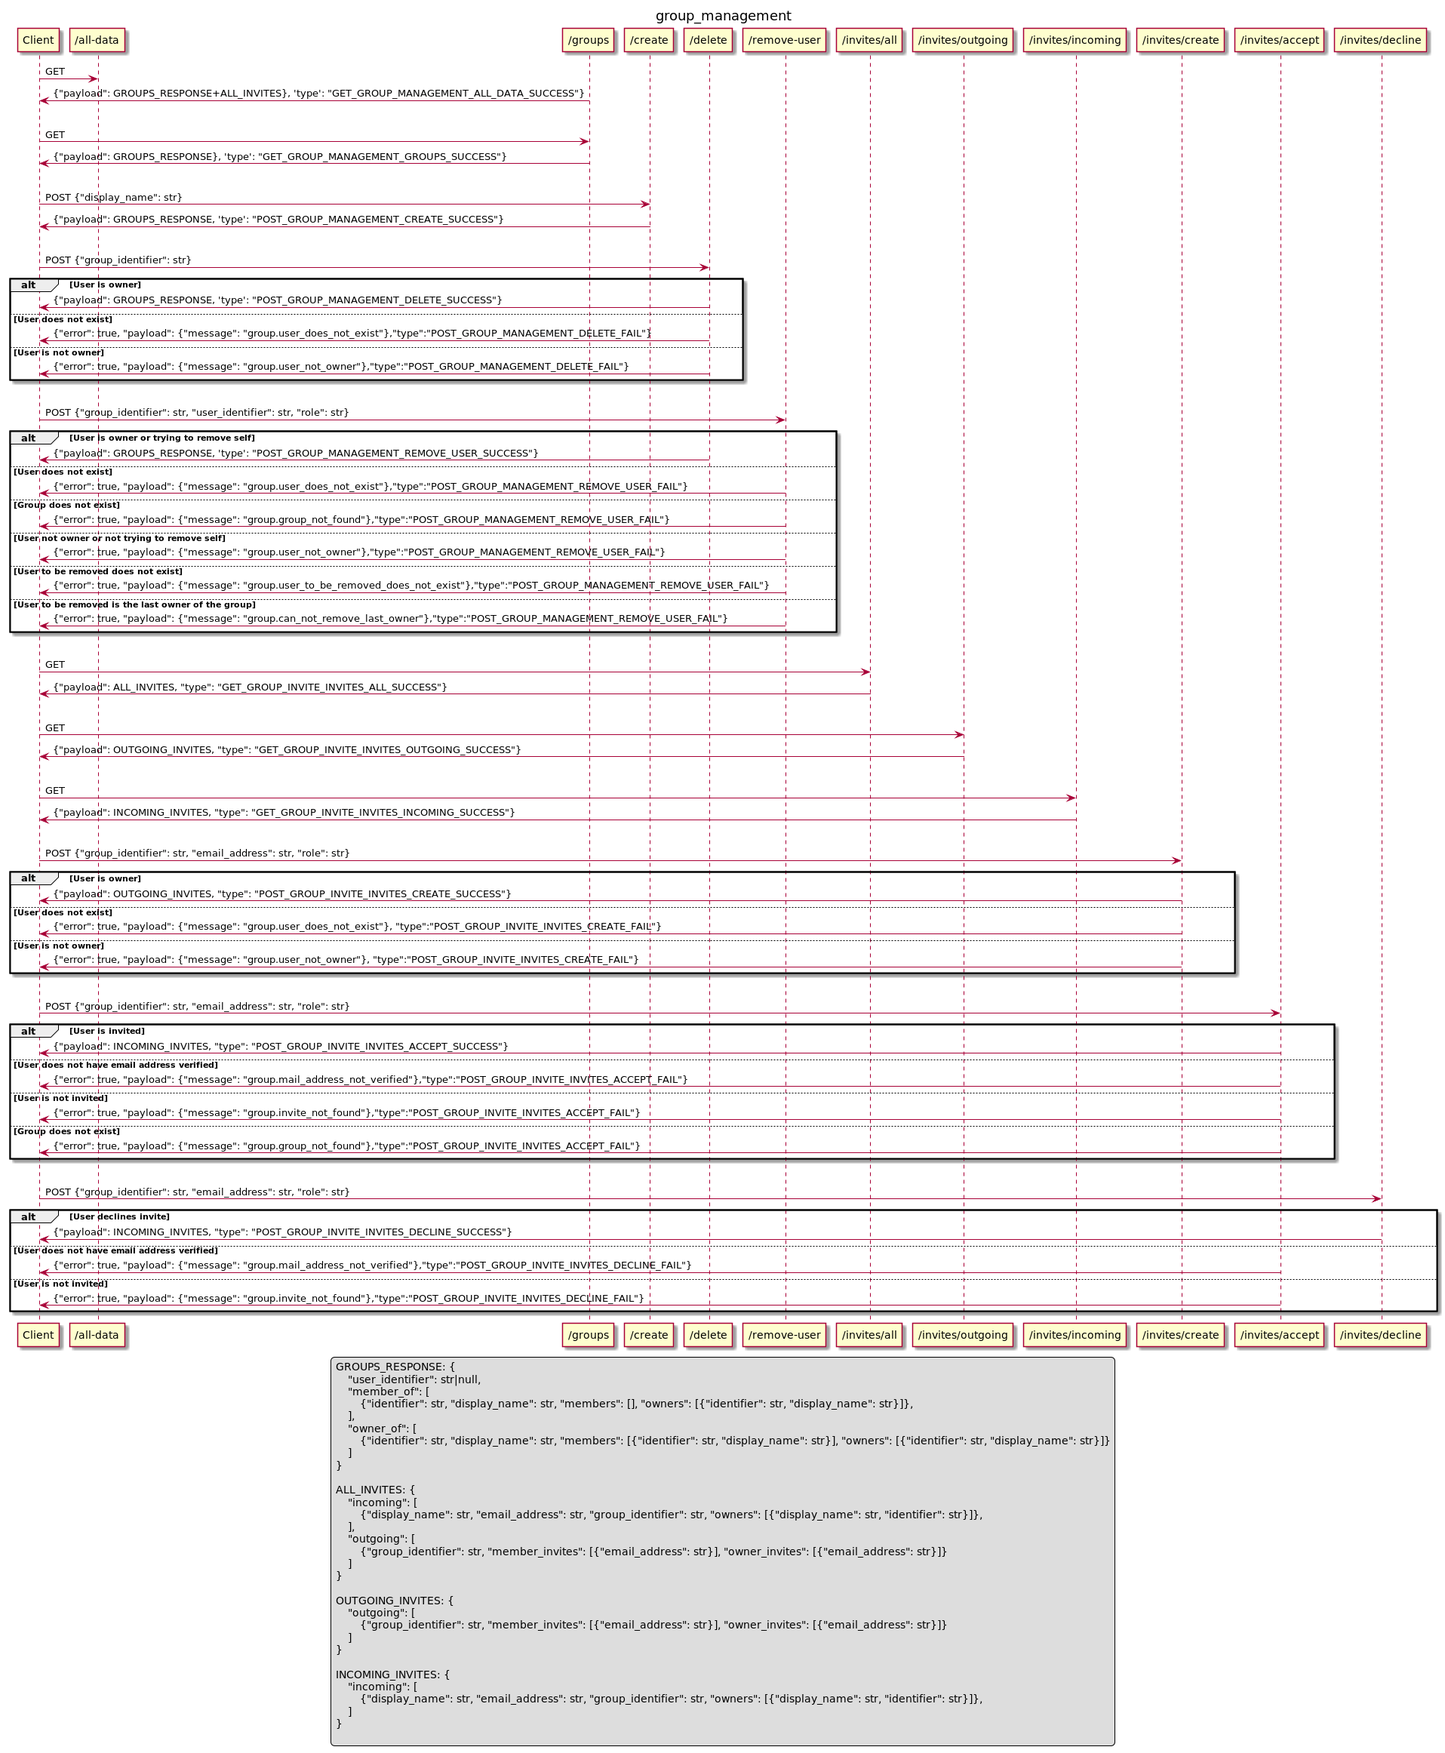
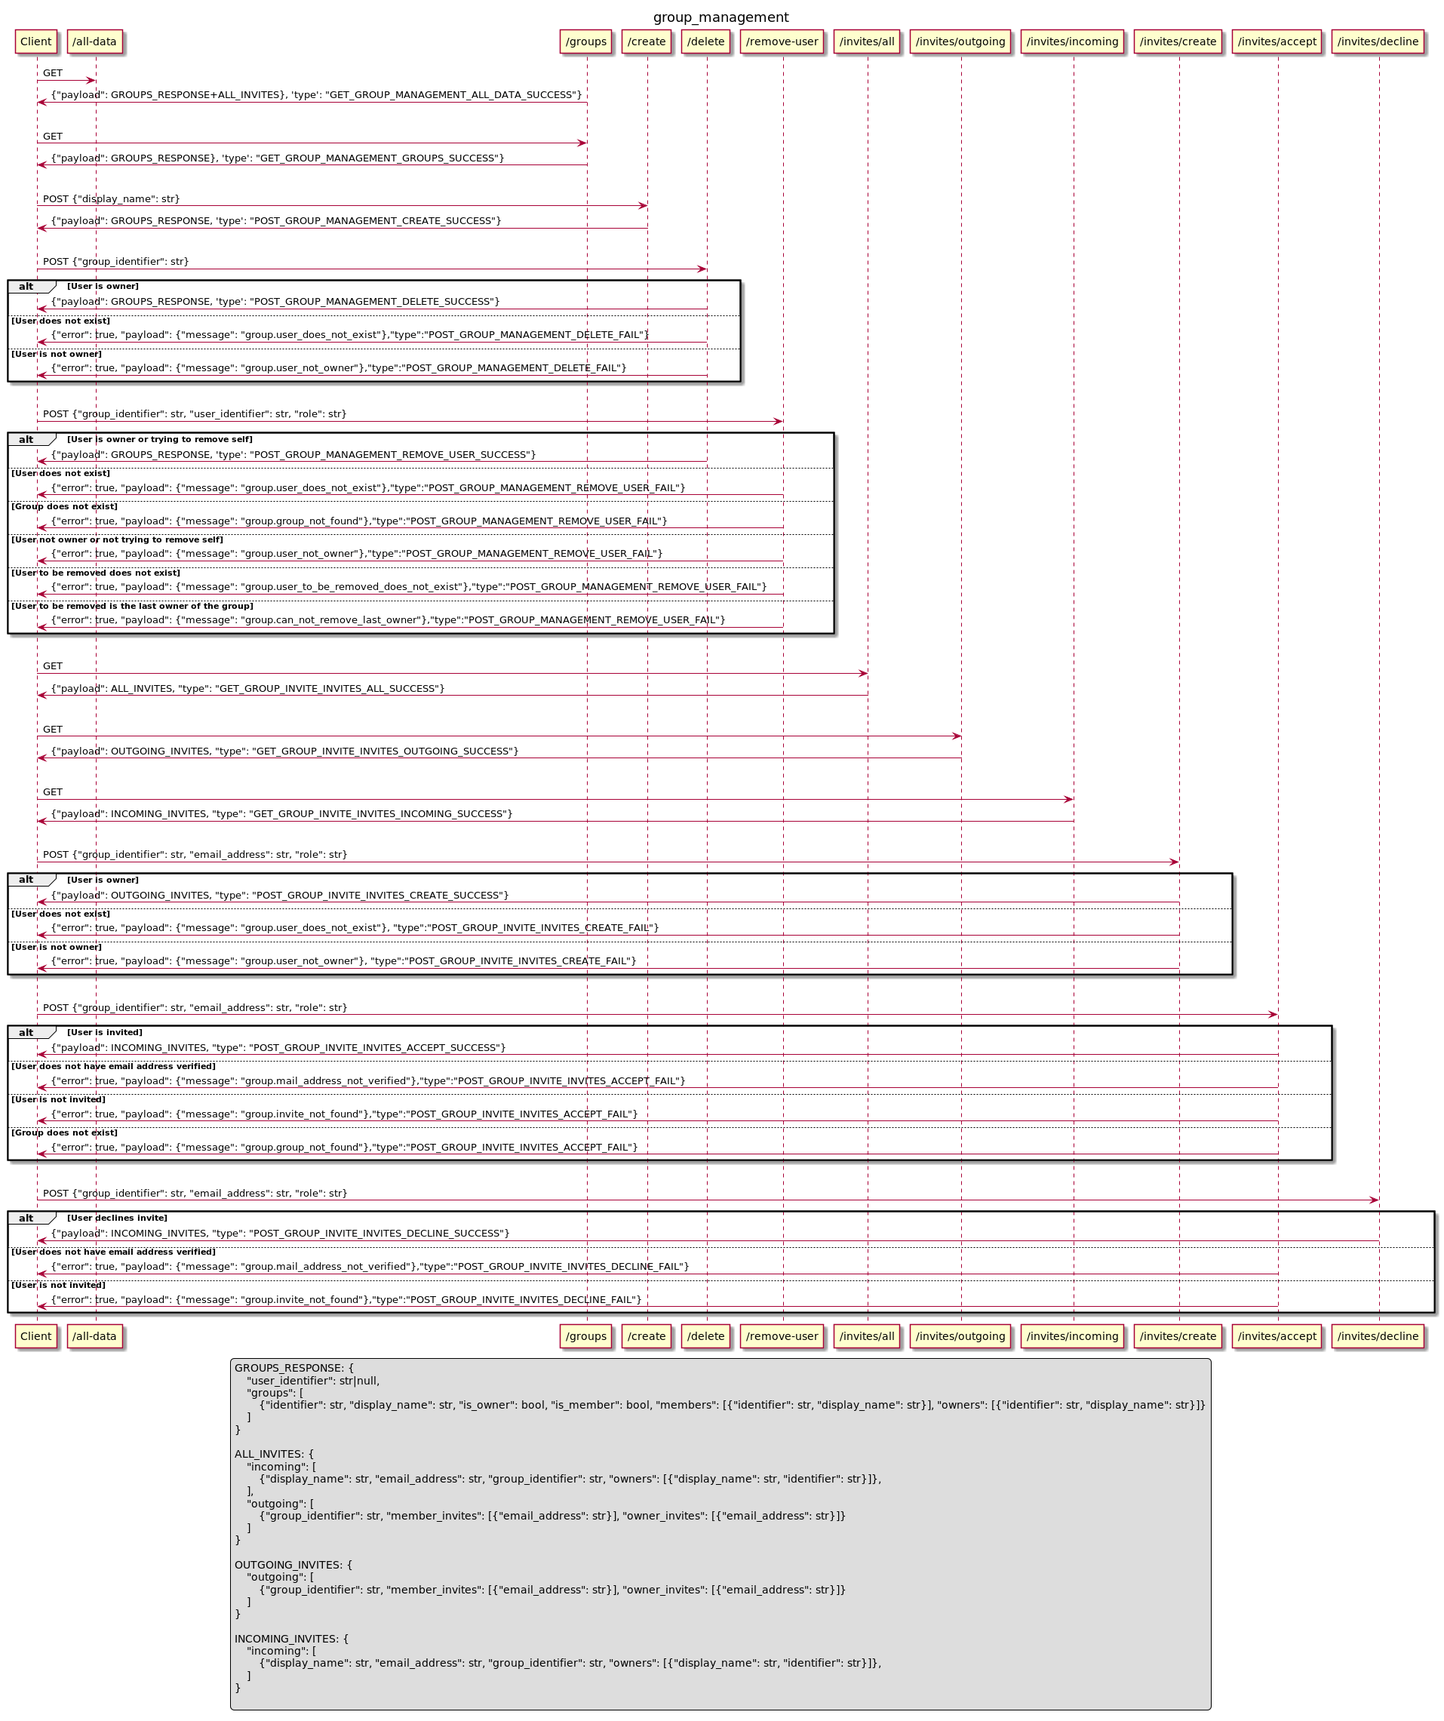
Combine owner_of and member_of in a groups list
Add is_owner and is_member to group data

Changed region(s): [[0.0, 0.0, 1.0, 1.0]]

diff --git a/src/eduid_webapp/group_management/tests/test_app.py b/src/eduid_webapp/group_management/tests/test_app.py
@@ -235,10 +235,10 @@ class GroupManagementTests(EduidAPITestCase):
         self._check_success_response(response, type_='GET_GROUP_MANAGEMENT_GROUPS_SUCCESS')
         payload = response.json.get('payload')
         assert str(self.scim_user1.scim_id) == payload['user_identifier']
-        assert 1 == len(payload['member_of'])
-        assert 1 == len(payload['owner_of'])
-        assert 'Test Group 1' == payload['member_of'][0]['display_name']
-        assert 'Test Group 1' == payload['owner_of'][0]['display_name']
+        assert 1 == len(payload['groups'])
+        assert 'Test Group 1' == payload['groups'][0]['display_name']
+        assert payload['groups'][0]['is_owner'] is True
+        assert payload['groups'][0]['is_member'] is True
 
     def test_get_member_groups_no_scim_user(self):
         # Remove test user from scim_userdb
@@ -250,8 +250,7 @@ class GroupManagementTests(EduidAPITestCase):
         self._check_success_response(response, type_='GET_GROUP_MANAGEMENT_GROUPS_SUCCESS')
         payload = response.json.get('payload')
         assert payload['user_identifier'] is None
-        assert 0 == len(payload['member_of'])
-        assert 0 == len(payload['owner_of'])
+        assert 0 == len(payload['groups'])
 
     def test_create_group(self):
         with self.session_cookie(self.browser, self.test_user.eppn) as client:
@@ -261,10 +260,11 @@ class GroupManagementTests(EduidAPITestCase):
                 response = client.post('/create', data=json.dumps(data), content_type=self.content_type_json)
         self._check_success_response(response, type_='POST_GROUP_MANAGEMENT_CREATE_SUCCESS')
         payload = response.json.get('payload')
-        assert 0 == len(payload['member_of'])
-        assert 1 == len(payload['owner_of'])
-        assert 'Test Group 2' == payload['owner_of'][0]['display_name']
-        assert self.app.scimapi_groupdb.group_exists(payload['owner_of'][0]['identifier']) is True
+        assert 1 == len(payload['groups'])
+        assert 'Test Group 2' == payload['groups'][0]['display_name']
+        assert payload['groups'][0]['is_owner'] is True
+        assert payload['groups'][0]['is_member'] is False
+        assert self.app.scimapi_groupdb.group_exists(payload['groups'][0]['identifier']) is True
 
     def test_create_group_no_scim_user(self):
         # Remove test user from scim_userdb
@@ -278,10 +278,11 @@ class GroupManagementTests(EduidAPITestCase):
                 response = client.post('/create', data=json.dumps(data), content_type=self.content_type_json)
         self._check_success_response(response, type_='POST_GROUP_MANAGEMENT_CREATE_SUCCESS')
         payload = response.json.get('payload')
-        assert 0 == len(payload['member_of'])
-        assert 1 == len(payload['owner_of'])
-        assert 'Test Group 2' == payload['owner_of'][0]['display_name']
-        assert self.app.scimapi_groupdb.group_exists(payload['owner_of'][0]['identifier']) is True
+        assert 1 == len(payload['groups'])
+        assert 'Test Group 2' == payload['groups'][0]['display_name']
+        assert payload['groups'][0]['is_owner'] is True
+        assert payload['groups'][0]['is_member'] is False
+        assert self.app.scimapi_groupdb.group_exists(payload['groups'][0]['identifier']) is True
 
     def test_delete_group(self):
         # Add test user as group owner of two groups
@@ -300,8 +301,7 @@ class GroupManagementTests(EduidAPITestCase):
                 response = client.post('/delete', data=json.dumps(data), content_type=self.content_type_json)
         self._check_success_response(response, type_='POST_GROUP_MANAGEMENT_DELETE_SUCCESS')
         payload = response.json.get('payload')
-        assert 0 == len(payload['member_of'])
-        assert 1 == len(payload['owner_of'])
+        assert 1 == len(payload['groups'])
 
         assert self.app.scimapi_groupdb.group_exists(str(self.scim_group2.scim_id)) is True
         assert self.app.scimapi_groupdb.group_exists(str(self.scim_group1.scim_id)) is False
@@ -388,8 +388,7 @@ class GroupManagementTests(EduidAPITestCase):
                 response = client.post('/remove-user', data=json.dumps(data), content_type=self.content_type_json)
         self._check_success_response(response, type_='POST_GROUP_MANAGEMENT_REMOVE_USER_SUCCESS')
         payload = response.json.get('payload')
-        assert 0 == len(payload['member_of'])
-        assert 1 == len(payload['owner_of'])
+        assert 1 == len(payload['groups'])
 
         # Check that test_user2 is no longer a member of scim_group1
         group = self.app.scimapi_groupdb.get_group_by_scim_id(str(self.scim_group1.scim_id))
@@ -450,8 +449,9 @@ class GroupManagementTests(EduidAPITestCase):
                 response = client.post('/remove-user', data=json.dumps(data), content_type=self.content_type_json)
         self._check_success_response(response, type_='POST_GROUP_MANAGEMENT_REMOVE_USER_SUCCESS')
         payload = response.json.get('payload')
-        assert 0 == len(payload['member_of'])
-        assert 1 == len(payload['owner_of'])
+        assert 1 == len(payload['groups'])
+        assert payload['groups'][0]['is_owner'] is True
+        assert payload['groups'][0]['is_member'] is False
 
         # Check that test_user2 is no longer a member of scim_group1
         group = self.app.scimapi_groupdb.get_group_by_scim_id(str(self.scim_group1.scim_id))
@@ -508,8 +508,7 @@ class GroupManagementTests(EduidAPITestCase):
                 response = client.post('/remove-user', data=json.dumps(data), content_type=self.content_type_json)
         self._check_success_response(response, type_='POST_GROUP_MANAGEMENT_REMOVE_USER_SUCCESS')
         payload = response.json.get('payload')
-        assert 0 == len(payload['member_of'])
-        assert 0 == len(payload['owner_of'])
+        assert 0 == len(payload['groups'])
 
         # Check that test_user1 is no longer a member of scim_group1
         group = self.app.scimapi_groupdb.get_group_by_scim_id(str(self.scim_group1.scim_id))
@@ -539,8 +538,7 @@ class GroupManagementTests(EduidAPITestCase):
                 response = client.post('/remove-user', data=json.dumps(data), content_type=self.content_type_json)
         self._check_success_response(response, type_='POST_GROUP_MANAGEMENT_REMOVE_USER_SUCCESS')
         payload = response.json.get('payload')
-        assert 0 == len(payload['member_of'])
-        assert 1 == len(payload['owner_of'])
+        assert 1 == len(payload['groups'])
 
         # Check that test_user2 is still not a member of scim_group1
         group = self.app.scimapi_groupdb.get_group_by_scim_id(str(self.scim_group1.scim_id))
@@ -609,10 +607,10 @@ class GroupManagementTests(EduidAPITestCase):
         self._check_success_response(response, type_='GET_GROUP_MANAGEMENT_GROUPS_SUCCESS')
         payload = response.json.get('payload')
         assert str(self.scim_user1.scim_id) == payload['user_identifier']
-        assert 1 == len(payload['member_of'])
-        assert 1 == len(payload['owner_of'])
-        assert 'Test Group 1' == payload['member_of'][0]['display_name']
-        assert 'Test Group 1' == payload['owner_of'][0]['display_name']
+        assert 1 == len(payload['groups'])
+        assert 'Test Group 1' == payload['groups'][0]['display_name']
+        assert payload['groups'][0]['is_owner'] is True
+        assert payload['groups'][0]['is_member'] is True
 
     def test_accept_invite_member(self):
         # Add test user as group owner
@@ -751,9 +749,10 @@ class GroupManagementTests(EduidAPITestCase):
         self._check_success_response(response, type_='GET_GROUP_MANAGEMENT_GROUPS_SUCCESS')
         payload = response.json.get('payload')
         assert str(self.scim_user1.scim_id) == payload['user_identifier']
-        assert 0 == len(payload['member_of'])
-        assert 1 == len(payload['owner_of'])
-        assert 'Test Group 1' == payload['owner_of'][0]['display_name']
+        assert 1 == len(payload['groups'])
+        assert 'Test Group 1' == payload['groups'][0]['display_name']
+        assert payload['groups'][0]['is_owner'] is True
+        assert payload['groups'][0]['is_member'] is False
 
     def test_accept_invite_owner(self):
         # Add test user as group owner
@@ -958,7 +957,7 @@ class GroupManagementTests(EduidAPITestCase):
         payload = response.json.get('payload')
         assert str(self.scim_user1.scim_id) == payload['user_identifier']
         assert 2 == len(payload['outgoing'])
-        assert 2 == len(payload['owner_of'])
+        assert 2 == len(payload['groups'])
 
         # Accept member invite as test user 2
         self._accept_invite(
@@ -975,8 +974,7 @@ class GroupManagementTests(EduidAPITestCase):
         payload = response.json.get('payload')
         assert str(self.scim_user2.scim_id) == payload['user_identifier']
         assert 1 == len(payload['incoming'])
-        assert 1 == len(payload['member_of'])
-        assert 0 == len(payload['owner_of'])
+        assert 1 == len(payload['groups'])
 
         # Test with only invites
         with self.session_cookie(self.browser, self.test_user3.eppn) as client:
@@ -985,8 +983,7 @@ class GroupManagementTests(EduidAPITestCase):
         payload = response.json.get('payload')
         assert payload['user_identifier'] is None
         assert 2 == len(payload['incoming'])
-        assert 0 == len(payload['member_of'])
-        assert 0 == len(payload['owner_of'])
+        assert 0 == len(payload['groups'])
 
     def test_get_all_data_privacy(self):
         # Add test user as group member and owner, add test user 2 as member
@@ -1013,27 +1010,14 @@ class GroupManagementTests(EduidAPITestCase):
             response = client.get('/all-data')
         self._check_success_response(response, type_='GET_GROUP_MANAGEMENT_ALL_DATA_SUCCESS')
         payload = response.json.get('payload')
-        # As member the user only see owners and themselves as member for a group
-        assert normalised_data(
-            [
-                {
-                    'display_name': 'Test Group 1',
-                    'identifier': '00000000-0000-0000-0000-000000000002',
-                    'members': [
-                        {'display_name': 'johnsmith@example.com', 'identifier': '00000000-0000-0000-0000-000000000000'}
-                    ],
-                    'owners': [
-                        {'display_name': 'johnsmith@example.com', 'identifier': '00000000-0000-0000-0000-000000000000'}
-                    ],
-                }
-            ]
-        ) == normalised_data(payload['member_of'])
         # As owner the user see both members and owners
         assert normalised_data(
             [
                 {
                     'display_name': 'Test Group 1',
                     'identifier': '00000000-0000-0000-0000-000000000002',
+                    'is_member': True,
+                    'is_owner': True,
                     'members': [
                         {'display_name': 'johnsmith@example.com', 'identifier': '00000000-0000-0000-0000-000000000000'},
                         {
@@ -1046,7 +1030,7 @@ class GroupManagementTests(EduidAPITestCase):
                     ],
                 }
             ]
-        ) == normalised_data(payload['owner_of'])
+        ) == normalised_data(payload['groups'])
         # As owner the user see your outgoing invites
         assert normalised_data(
             [
@@ -1071,6 +1055,8 @@ class GroupManagementTests(EduidAPITestCase):
                 {
                     'display_name': 'Test Group 1',
                     'identifier': '00000000-0000-0000-0000-000000000002',
+                    'is_member': True,
+                    'is_owner': False,
                     'members': [
                         {'display_name': 'johnsmith2@example.com', 'identifier': '00000000-0000-0000-0000-000000000001'}
                     ],
@@ -1079,9 +1065,7 @@ class GroupManagementTests(EduidAPITestCase):
                     ],
                 }
             ]
-        ) == normalised_data(payload['member_of'])
-        # test user 2 is not an owner of a group
-        assert [] == payload['owner_of']
+        ) == normalised_data(payload['groups'])
         # test user 2 does not have any outgoing invites
         assert [] == payload['outgoing']
         # as an invitee the user see incoming invites

diff --git a/src/eduid_webapp/group_management/helpers.py b/src/eduid_webapp/group_management/helpers.py
@@ -1,6 +1,7 @@
 # -*- coding: utf-8 -*-
+from dataclasses import asdict, dataclass, replace
 from enum import unique
-from typing import Any, Dict, List, Optional
+from typing import Any, Dict, List, Optional, Set, Union
 from uuid import UUID
 
 from flask_babel import gettext as _
@@ -8,6 +9,7 @@ from flask_babel import gettext as _
 from eduid_common.api.exceptions import MailTaskFailed
 from eduid_common.api.helpers import send_mail
 from eduid_common.api.messages import TranslatableMsg
+from eduid_graphdb.groupdb import Group as GraphGroup
 from eduid_graphdb.groupdb import User as GraphUser
 from eduid_scimapi.db.groupdb import ScimApiGroup
 from eduid_scimapi.db.userdb import ScimApiUser
@@ -38,6 +40,27 @@ class GroupManagementMsg(TranslatableMsg):
     mail_address_not_verified = 'group.mail_address_not_verified'
 
 
+@dataclass
+class UserGroup:
+    identifier: UUID
+    display_name: str
+    is_owner: bool
+    is_member: bool
+    owners: Set[Union[GraphUser, GraphGroup]]
+    members: Set[Union[GraphUser, GraphGroup]]
+
+    @classmethod
+    def from_scimapigroup(cls, group: ScimApiGroup, owner: bool = False, member: bool = False):
+        return cls(
+            identifier=group.scim_id,
+            display_name=group.display_name,
+            is_owner=owner,
+            is_member=member,
+            owners=group.graph.owners,
+            members=group.graph.members,
+        )
+
+
 def get_scim_user_by_eppn(eppn: str) -> Optional[ScimApiUser]:
     external_id = f'{eppn}@{current_app.config.scim_external_id_scope}'
     scim_user = current_app.scimapi_userdb.get_user_by_external_id(external_id=external_id)
@@ -54,19 +77,36 @@ def get_or_create_scim_user_by_eppn(eppn: str) -> ScimApiUser:
     return scim_user
 
 
-def list_of_group_data(group_list: List[ScimApiGroup]) -> List[Dict]:
+def merge_group_lists(owner_groups: List[ScimApiGroup], member_groups: List[ScimApiGroup]) -> List[UserGroup]:
+    """
+    :param owner_groups: Groups the user is owner to
+    :param member_groups: Groups the user is member of
+
+    :return: Combined group list for user
+    """
+    combined_groups = {}
+    # Start with the groups the user is owner of
+    for group in owner_groups:
+        combined_groups[group.scim_id] = UserGroup.from_scimapigroup(group, owner=True)
+    # Add or update groups the user is member of
+    for group in member_groups:
+        # A user can be both member and owner so the group can already exist
+        if group.scim_id in combined_groups:
+            existing_group = combined_groups[group.scim_id]
+            combined_groups[group.scim_id] = replace(existing_group, is_member=True)
+        else:
+            combined_groups[group.scim_id] = UserGroup.from_scimapigroup(group, member=True)
+    return list(combined_groups.values())
+
+
+def list_of_group_data(group_list: List[UserGroup]) -> List[Dict]:
     ret = []
     for group in group_list:
-        members = [
-            {'identifier': member.identifier, 'display_name': member.display_name} for member in group.graph.members
-        ]
-        owners = [{'identifier': owner.identifier, 'display_name': owner.display_name} for owner in group.graph.owners]
-        group_data = {
-            'identifier': group.scim_id,
-            'display_name': group.display_name,
-            'members': members,
-            'owners': owners,
-        }
+        members = [{'identifier': member.identifier, 'display_name': member.display_name} for member in group.members]
+        owners = [{'identifier': owner.identifier, 'display_name': owner.display_name} for owner in group.owners]
+        group_data = asdict(group)
+        group_data['owners'] = owners
+        group_data['members'] = members
         current_app.logger.debug(f'Group data: {group_data}')
         ret.append(group_data)
     return ret
@@ -75,13 +115,11 @@ def list_of_group_data(group_list: List[ScimApiGroup]) -> List[Dict]:
 def get_all_group_data(scim_user: ScimApiUser) -> Dict[str, Any]:
     member_groups = current_app.scimapi_groupdb.get_groups_for_user_identifer(scim_user.scim_id)
     owner_groups = current_app.scimapi_groupdb.get_groups_owned_by_user_identifier(scim_user.scim_id)
+    combined_groups = merge_group_lists(owner_groups=owner_groups, member_groups=member_groups)
     current_app.logger.debug(f'member_of: {member_groups}')
     current_app.logger.debug(f'owner_of: {owner_groups}')
-    return {
-        'user_identifier': scim_user.scim_id,
-        'member_of': list_of_group_data(member_groups),
-        'owner_of': list_of_group_data(owner_groups),
-    }
+    current_app.logger.debug(f'combined: {combined_groups}')
+    return {'user_identifier': scim_user.scim_id, 'groups': list_of_group_data(combined_groups)}
 
 
 def is_owner(scim_user: ScimApiUser, group_id: UUID) -> bool:

diff --git a/src/eduid_webapp/group_management/schemas.py b/src/eduid_webapp/group_management/schemas.py
@@ -51,6 +51,8 @@ class GroupUser(EduidSchema):
 class Group(EduidSchema):
     identifier = fields.UUID(required=True)
     display_name = fields.Str(required=True)
+    is_member = fields.Bool(required=True)
+    is_owner = fields.Bool(required=True)
     members = fields.Nested(nested=GroupUser, default=[], many=True)
     owners = fields.Nested(nested=GroupUser, default=[], many=True)
 
@@ -75,8 +77,7 @@ class IncomingInvite(EduidSchema):
 class GroupManagementResponseSchema(FluxStandardAction):
     class GroupManagementResponsePayload(EduidSchema, CSRFResponseMixin):
         user_identifier = fields.UUID(default=None)
-        member_of = fields.Nested(Group, default=[], many=True)
-        owner_of = fields.Nested(Group, default=[], many=True)
+        groups = fields.Nested(Group, default=[], many=True)
 
     payload = fields.Nested(GroupManagementResponsePayload)
 
@@ -130,8 +131,7 @@ class GroupAllInviteResponseSchema(FluxStandardAction):
 class GroupManagementAllDataResponseSchema(FluxStandardAction):
     class CombinedGroupDataInviteDataPayload(EduidSchema, CSRFResponseMixin):
         user_identifier = fields.UUID(default=None)
-        member_of = fields.Nested(Group, default=[], many=True)
-        owner_of = fields.Nested(Group, default=[], many=True)
+        groups = fields.Nested(Group, default=[], many=True)
         incoming = fields.Nested(IncomingInvite, many=True)
         outgoing = fields.Nested(OutgoingInvite, many=True)
 
